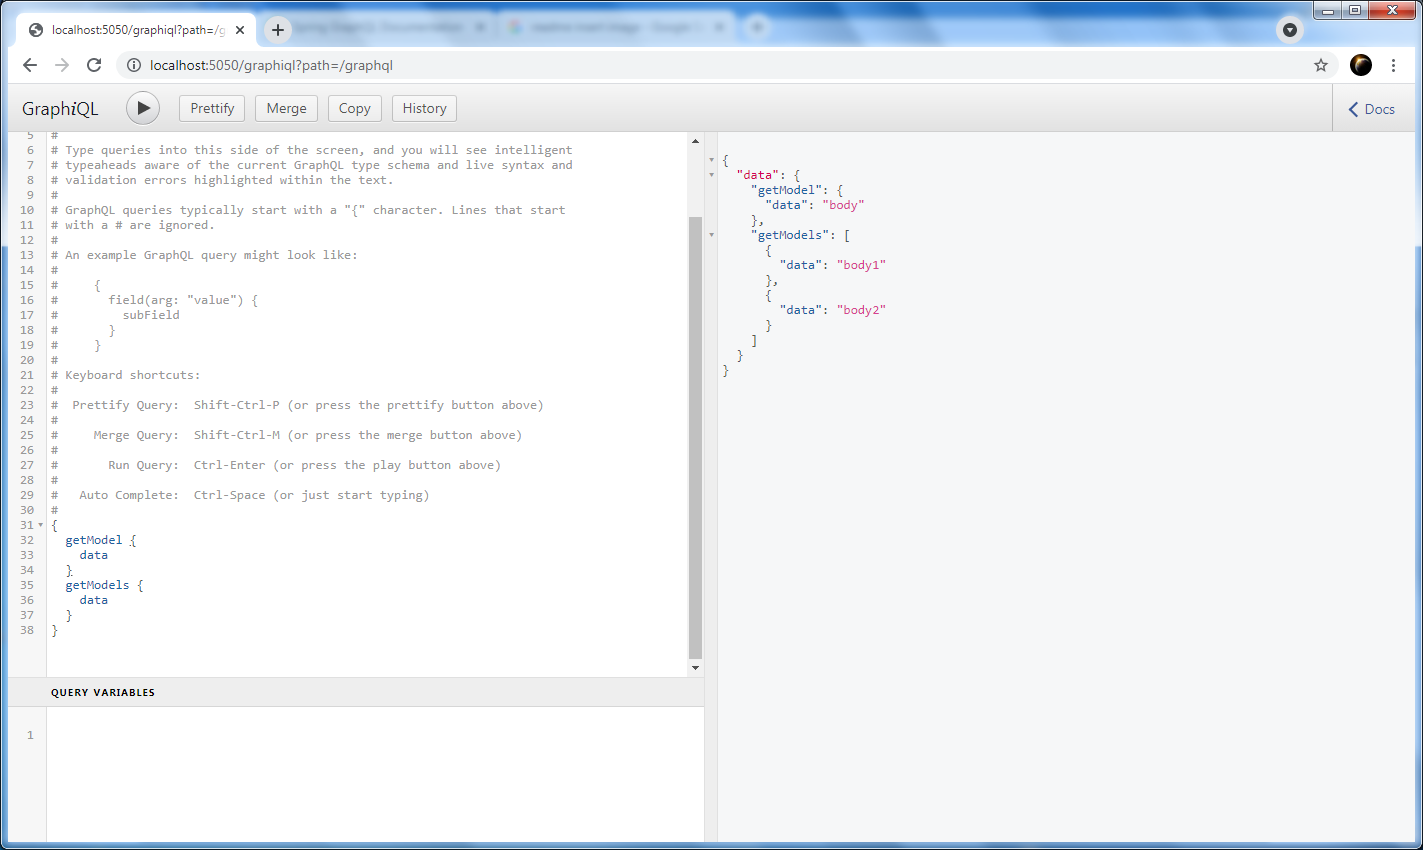
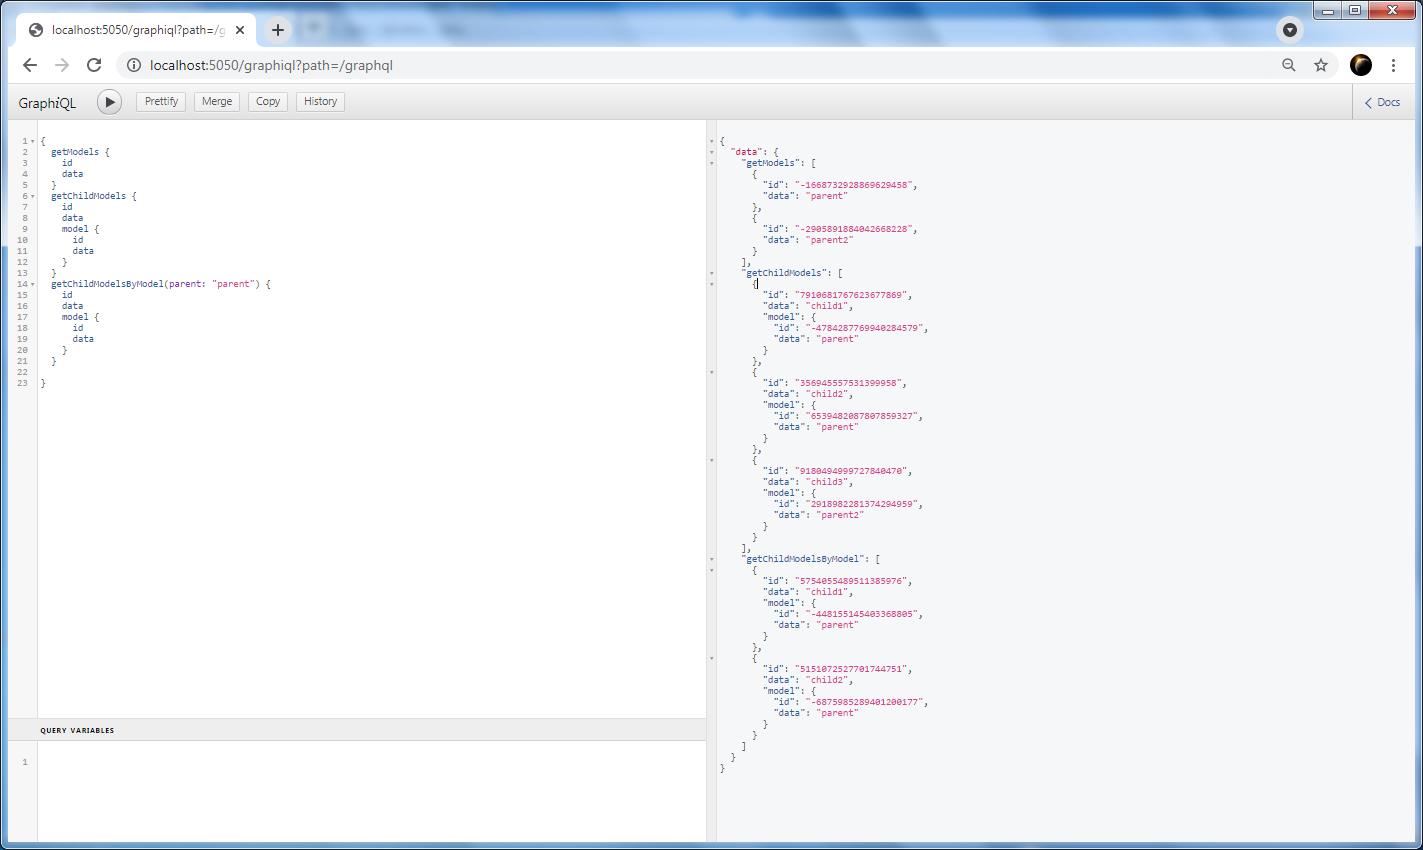
Update GraphIQL

diff --git a/src/main/java/com/graphql/controllers/TestController.java b/src/main/java/com/graphql/controllers/TestController.java
@@ -19,12 +19,12 @@ public class TestController {
 	
 	@QueryMapping
 	public Mono<Model> getModel() {
-		return Mono.just(new Model("body"));
+		return Mono.just(new Model("parent"));
 	}
 	
 	@QueryMapping
 	public Flux<Model> getModels() {
-		return Flux.just(new Model("body1"), new Model("body2"));
+		return Flux.just(new Model("parent"), new Model("parent2"));
 	}
 	
 	@QueryMapping
